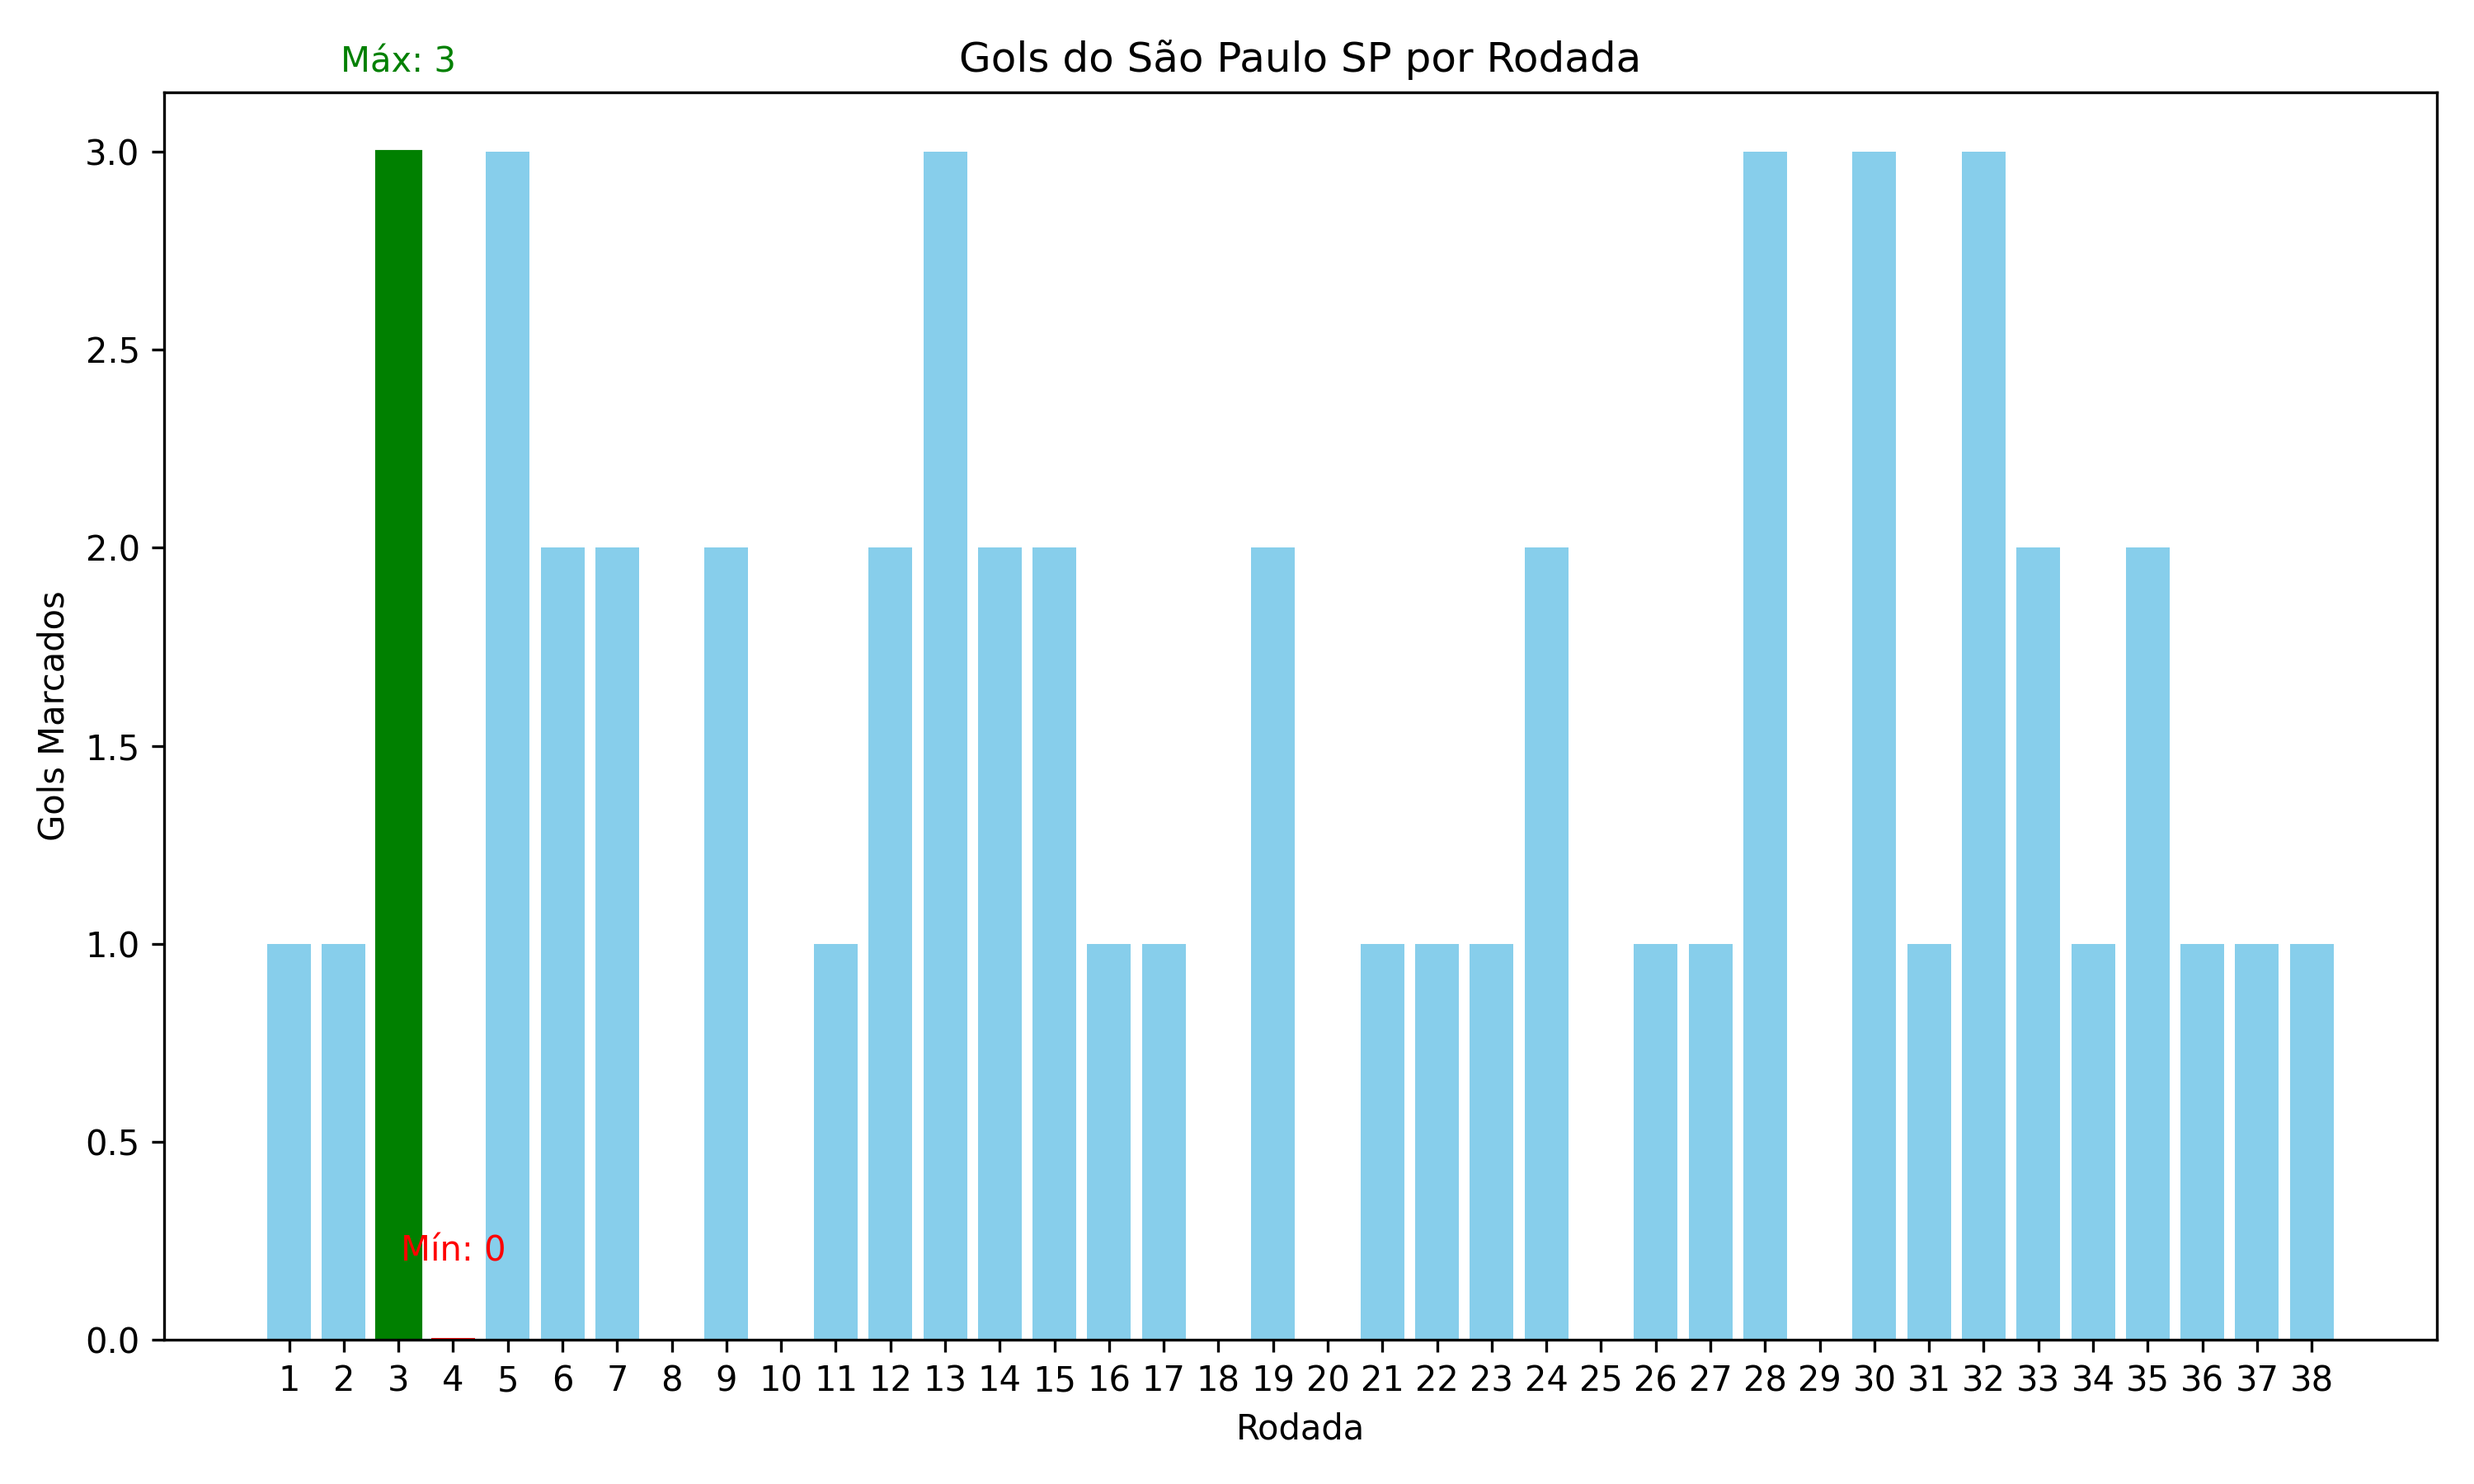
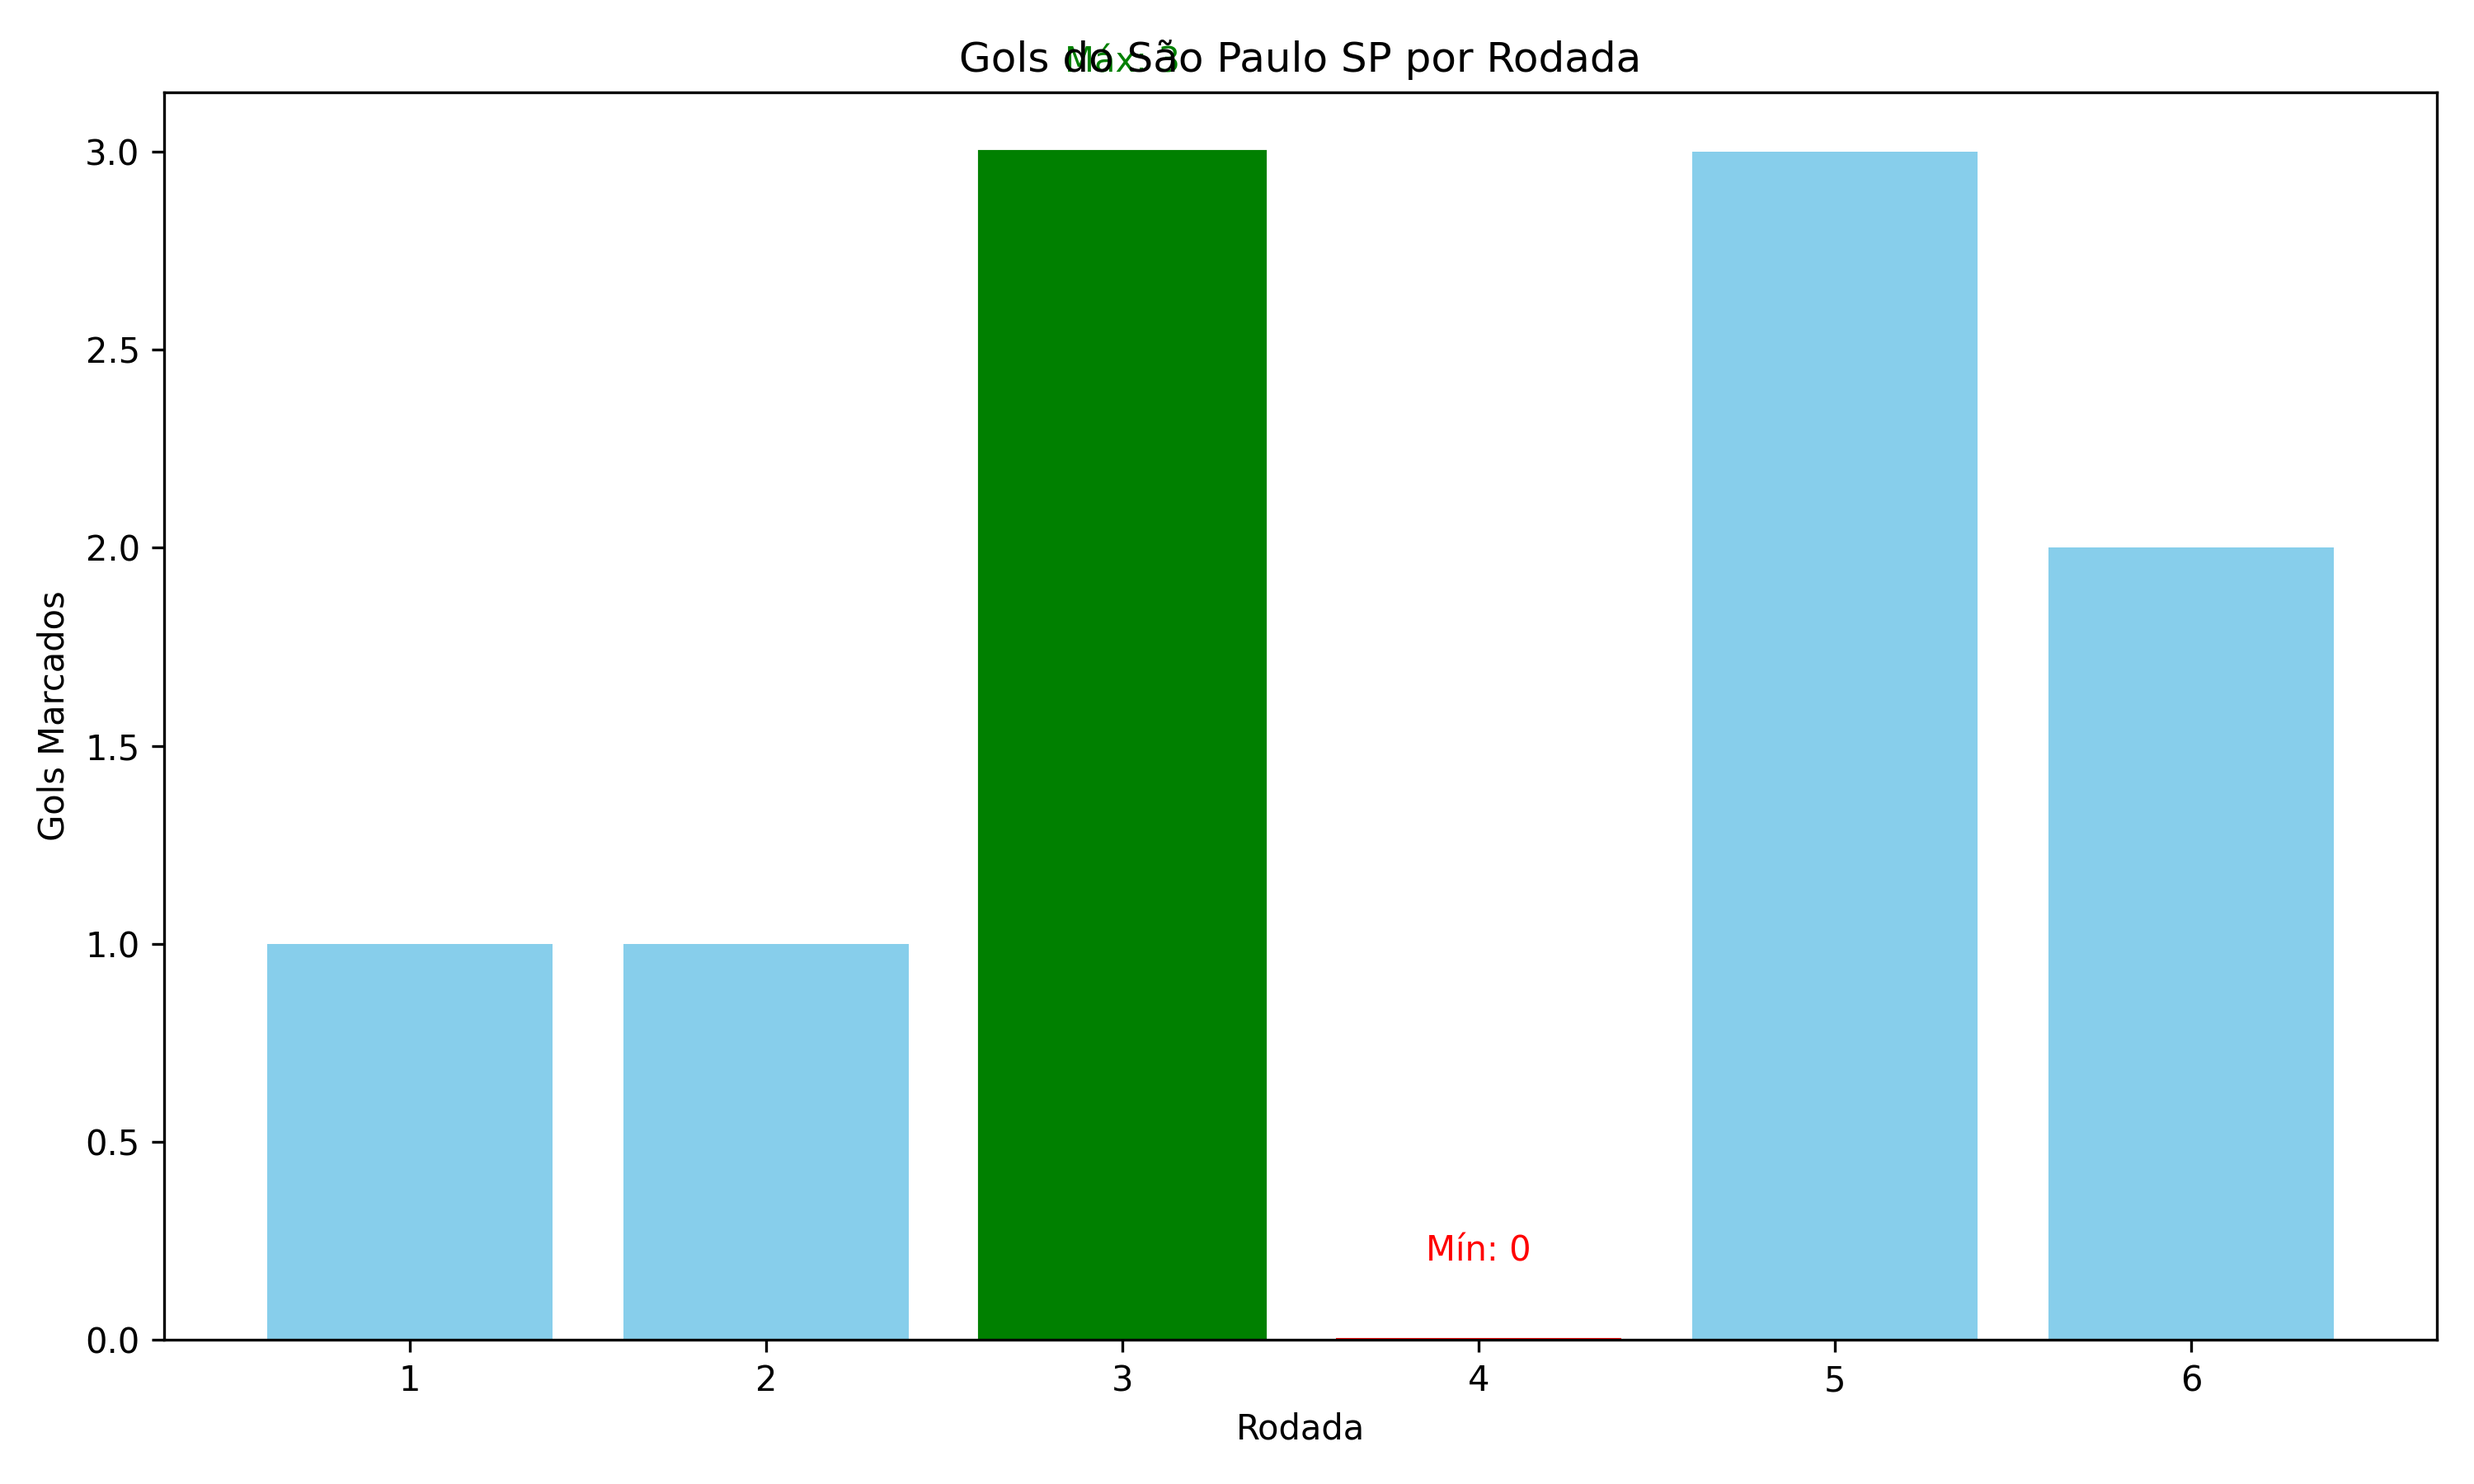
correção de bugs na funcionalidade de dinamismo da rodada

diff --git a/ETL/Files/analyze.py b/ETL/Files/analyze.py
@@ -45,6 +45,7 @@ def analyze_Per_Round(round):
 
 def analyze_Per_Team():
     df = read(paths[0], "excel")
+    df_rod = analyze_Per_Round(6)
     
     df['JOGO'] = df['JOGO'].astype(str)
     df[['TimeMandante', 'UF_M', 'Gols_M', 'Gols_V', 'TimeVisitante', 'UF_V']] = df['JOGO'].str.extract(
@@ -62,11 +63,10 @@ def analyze_Per_Team():
     df['GolVisitante'] = df['TimeVisitante'].str.strip() + ' ' + df['UF_V'] + ' - ' + df['Gols_V']
 
     df['ROD_NUM'] = df['ROD'].str.extract(r'(\d+)').astype(int)
-
 # Filtra a rodada de forma dinamica, passando a rodada no parametro da função analyze_Per_Round
-    filter_per_round = df[df['ROD_NUM'] <= analyze_Per_Round(30)
+    filter_per_round = df[df['ROD_NUM'] <= analyze_Per_Round(25)
+                          
 ]
-
     principal = filter_per_round[filter_per_round['GolMandante'].str.contains(r'^São Paulo SP', regex=True)]
 
     visitor = filter_per_round[filter_per_round['GolVisitante'].str.contains(r'^São Paulo SP', regex=True)]
@@ -76,10 +76,10 @@ def analyze_Per_Team():
 
     total_gols_sp = gols_principal + gols_visitor
     print(f"Total de gols realizado pela equipe do são paulo, {total_gols_sp}")
-    return df
+    return df, df_rod
 
 def analyze_Gol_Per_Round(graph_func=None):
-    df = analyze_Per_Team()
+    df, df_rod = analyze_Per_Team()
 
     # Filtra São Paulo como mandante e visitante
     sp_home = df[df['GolMandante'].str.strip().str.contains(r'^São Paulo SP', case=False, regex=True)].copy()
@@ -97,6 +97,8 @@ def analyze_Gol_Per_Round(graph_func=None):
     sp_total = pd.concat([sp_home, sp_visitor])
 
     sp_total['ROD_NUM'] = sp_total['ROD_NUM'].astype(int)
+    sp_total = sp_total[sp_total['ROD_NUM'] <= df_rod]
+
 
     gol_per_round = sp_total.groupby('ROD_NUM')['GOLS'].sum()
 
@@ -104,7 +106,7 @@ def analyze_Gol_Per_Round(graph_func=None):
     round_min = gol_per_round.idxmin()
         
     if graph_func:
-        graph_func(gol_per_round, round_max, round_min)
+        graph_func(gol_per_round, round_max, round_min, df_rod)
         
     return gol_per_round, round_max, round_min
 

diff --git a/ETL/Files/graphs.py b/ETL/Files/graphs.py
@@ -14,9 +14,7 @@ INPUT_DIR = os.path.abspath(os.path.join(BASE_DIR, "..", "Created_File"))
 # Caminho para salvar imagens
 OUTPUT_IMG_DIR = os.path.abspath(os.path.join(BASE_DIR, "..", "img"))
 
-
-def graph_team_round_gol(gol_per_round, round_max, round_min):
-    
+def graph_team_round_gol(gol_per_round, round_max, round_min, df_rod):
     # --- 📊 Gráfico ---
     plt.figure(figsize=(10, 6))
     bars = plt.bar(gol_per_round.index, gol_per_round.values, color='skyblue')
